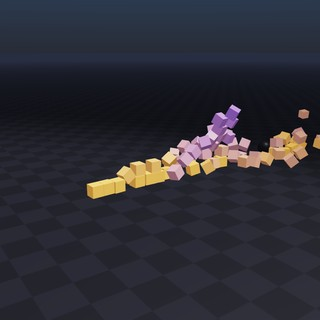
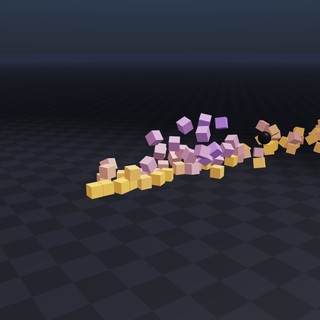
Run every showreel scene at four iterations and four substeps
With persistent friction patches on fpgs-main the stacks no longer need
iteration counts near their height: at 4x4 the resting pyramid's top
box drifts 20 mm and the jenga tower leans 26 to 59 mm over six seconds
(103 mm and 200 mm before at 12 and 32 iterations), and all six scenes
pass their tests and stay finite in three repeated runs. Frame times
fall to 3 ms for the pyramid, dominoes and grasp, 6 ms for the Galton
board, 10 ms for jenga and 14 ms for the wrecking ball.

Changed region(s): [[0.25, 0.3125, 1.0, 0.625]]

diff --git a/newton/examples/feather_pgs/example_fpgs_jenga.py b/newton/examples/feather_pgs/example_fpgs_jenga.py
@@ -24,12 +24,12 @@ import newton.examples
 from newton.examples.feather_pgs._showreel import Stepper, assert_finite, make_solver, push_body
 
 LEVELS = 18
-# Three times real Jenga size, exact-fit blocks. A velocity-level PGS stack creeps
-# and slowly tips unless the iteration count is a couple of times the stack height;
-# at real size and sixteen iterations the tower falls over on its own in seconds,
-# at this size and 32 iterations it leans about a percent of its height per second.
+# Three times real Jenga size, exact-fit blocks. With point friction a PGS stack
+# creeps and slowly tips unless the iteration count is a couple of times the stack
+# height; persistent friction patches anchor the seams, and four iterations at four
+# substeps now hold the top within a few centimetres over six seconds.
 BLOCK_L, BLOCK_W, BLOCK_H = 0.90, 0.30, 0.18
-SOLVER_OVERRIDES = {"pgs_iterations": 32, "mf_max_constraints": 4096}
+SOLVER_OVERRIDES = {"pgs_iterations": 4, "mf_max_constraints": 4096}
 
 
 class Example:
@@ -38,7 +38,7 @@ class Example:
         self.viewer = viewer
         self.fps = 60
         self.frame_dt = 1.0 / self.fps
-        self.sim_substeps = 1
+        self.sim_substeps = 4
         self.sim_dt = self.frame_dt / self.sim_substeps
         self.sim_time = 0.0
         self.test_mode = bool(getattr(args, "test", False))

diff --git a/newton/examples/feather_pgs/example_fpgs_pyramid.py b/newton/examples/feather_pgs/example_fpgs_pyramid.py
@@ -26,9 +26,10 @@ BASE = 12
 BOX = 0.5
 CANNONBALL_RADIUS = 0.35
 FIRE_AT = 1.5
-# With persistent friction patches six iterations hold the stack better than twelve
-# did with point friction (top-box drift 31 mm vs 103 mm over six seconds at rest).
-SOLVER_OVERRIDES = {"pgs_iterations": 6, "mf_max_constraints": 8192}
+# With persistent friction patches four iterations at four substeps hold the stack
+# better than twelve did with point friction (top-box drift 20 mm vs 103 mm over six
+# seconds at rest).
+SOLVER_OVERRIDES = {"pgs_iterations": 4, "mf_max_constraints": 8192}
 
 
 class Example:
@@ -37,7 +38,7 @@ class Example:
         self.viewer = viewer
         self.fps = 60
         self.frame_dt = 1.0 / self.fps
-        self.sim_substeps = 2
+        self.sim_substeps = 4
         self.sim_dt = self.frame_dt / self.sim_substeps
         self.sim_time = 0.0
         self.test_mode = bool(getattr(args, "test", False))

diff --git a/newton/examples/feather_pgs/example_fpgs_wrecking_ball.py b/newton/examples/feather_pgs/example_fpgs_wrecking_ball.py
@@ -49,7 +49,7 @@ LINK_DENSITY = 7800.0
 LINKS = max(3, round(CHAIN_LEN / (2 * LINK_HALF)))
 BALL_DENSITY = 7800.0
 SOLVER_OVERRIDES = {
-    "pgs_iterations": 8,
+    "pgs_iterations": 4,
     "pgs_contact_regularization": 0.01,
     "dense_max_constraints": 4096,
     "mf_max_constraints": 8192,
@@ -67,7 +67,7 @@ class Example:
         self.viewer = viewer
         self.fps = 60
         self.frame_dt = 1.0 / self.fps
-        # Four substeps at eight iterations with a small proximal regularization keep
+        # Four substeps at four iterations with a small proximal regularization keep
         # the two-hundred-tonne ball finite in the debris pile.
         self.sim_substeps = 4
         self.sim_dt = self.frame_dt / self.sim_substeps

diff --git a/newton/examples/feather_pgs/_showreel.py b/newton/examples/feather_pgs/_showreel.py
@@ -30,7 +30,7 @@ def make_solver(model: newton.Model, *, route: str = ROUTES[0], **overrides) -> 
     a single large world needs; ``"immediate"`` is the serial per-world sweep.
     CPU falls back to the split mode, the only CPU-capable mode.
     """
-    kwargs = {"pgs_iterations": 24, "pgs_beta": 0.2, "angular_damping": 0.0}
+    kwargs = {"pgs_iterations": 4, "pgs_beta": 0.2, "angular_damping": 0.0}
     if model.device.is_cuda:
         kwargs["pgs_mode"] = "matrix_free"
         kwargs["articulated_contact_response"] = route

diff --git a/newton/examples/feather_pgs/example_fpgs_dominoes.py b/newton/examples/feather_pgs/example_fpgs_dominoes.py
@@ -35,7 +35,7 @@ RADIUS0, RADIUS_GROWTH = 7.8, -0.07
 # tiles along at ankle height; the latter only sometimes converts into a running chain.
 BALL_RADIUS = 0.5
 BALL_EXIT_ANGLE = math.radians(35.0)
-SOLVER_OVERRIDES = {"pgs_iterations": 16, "mf_max_constraints": 4096}
+SOLVER_OVERRIDES = {"pgs_iterations": 4, "mf_max_constraints": 4096}
 
 
 class Example:

diff --git a/newton/examples/feather_pgs/example_fpgs_mesh_grasp.py b/newton/examples/feather_pgs/example_fpgs_mesh_grasp.py
@@ -29,7 +29,7 @@ import newton.examples
 from newton.examples.feather_pgs._showreel import Stepper, assert_finite, make_solver
 
 SOLVER_OVERRIDES = {
-    "pgs_iterations": 16,
+    "pgs_iterations": 4,
     "dense_max_constraints": 2048,
     "mf_max_constraints": 4096,
     # Finger travel is bounded by joint limits, and contacts between links of one

diff --git a/newton/examples/feather_pgs/example_fpgs_galton.py b/newton/examples/feather_pgs/example_fpgs_galton.py
@@ -32,7 +32,7 @@ BIN_HEIGHT = 0.35
 TOP_ROW_Z = 1.2
 SLOT_HALF = 0.011
 BALLS = 300
-SOLVER_OVERRIDES = {"pgs_iterations": 8, "mf_max_constraints": 8192}
+SOLVER_OVERRIDES = {"pgs_iterations": 4, "mf_max_constraints": 8192}
 
 
 class Example:
